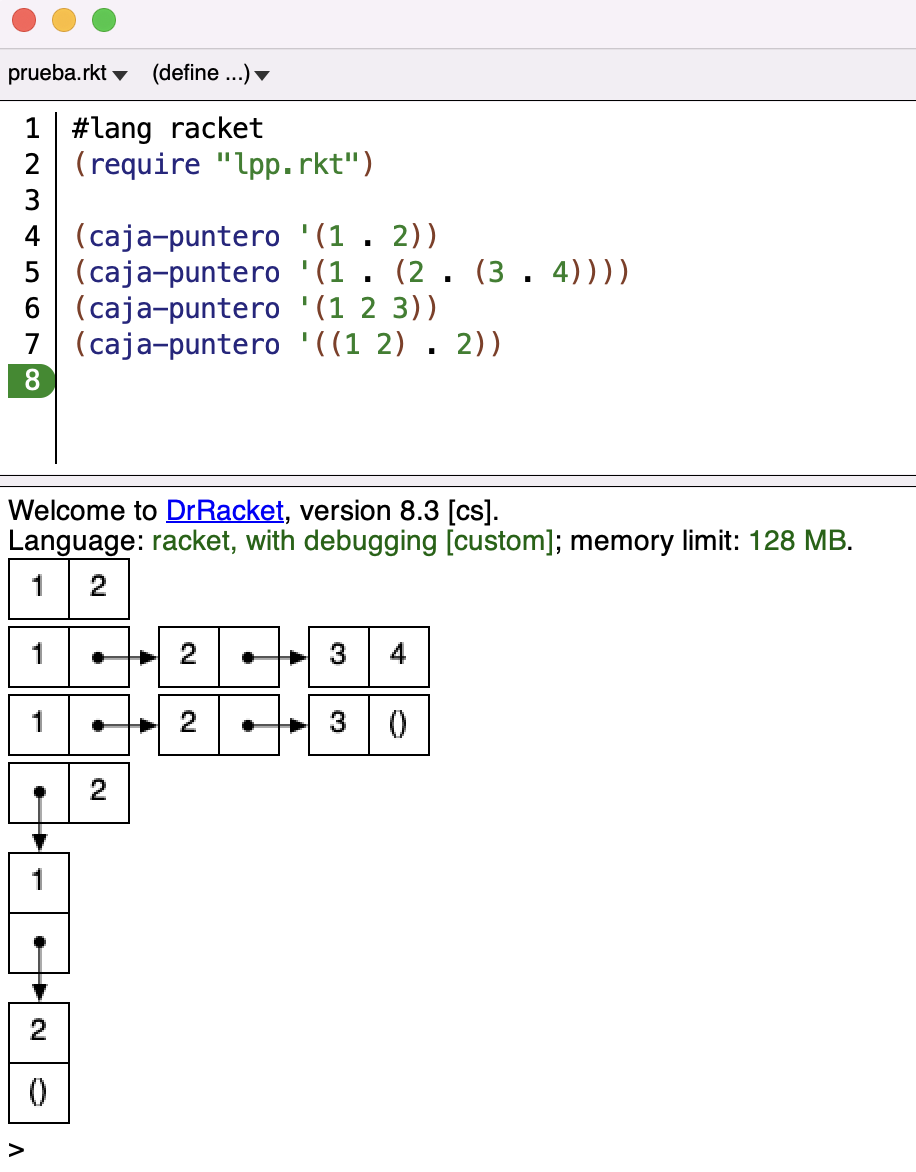
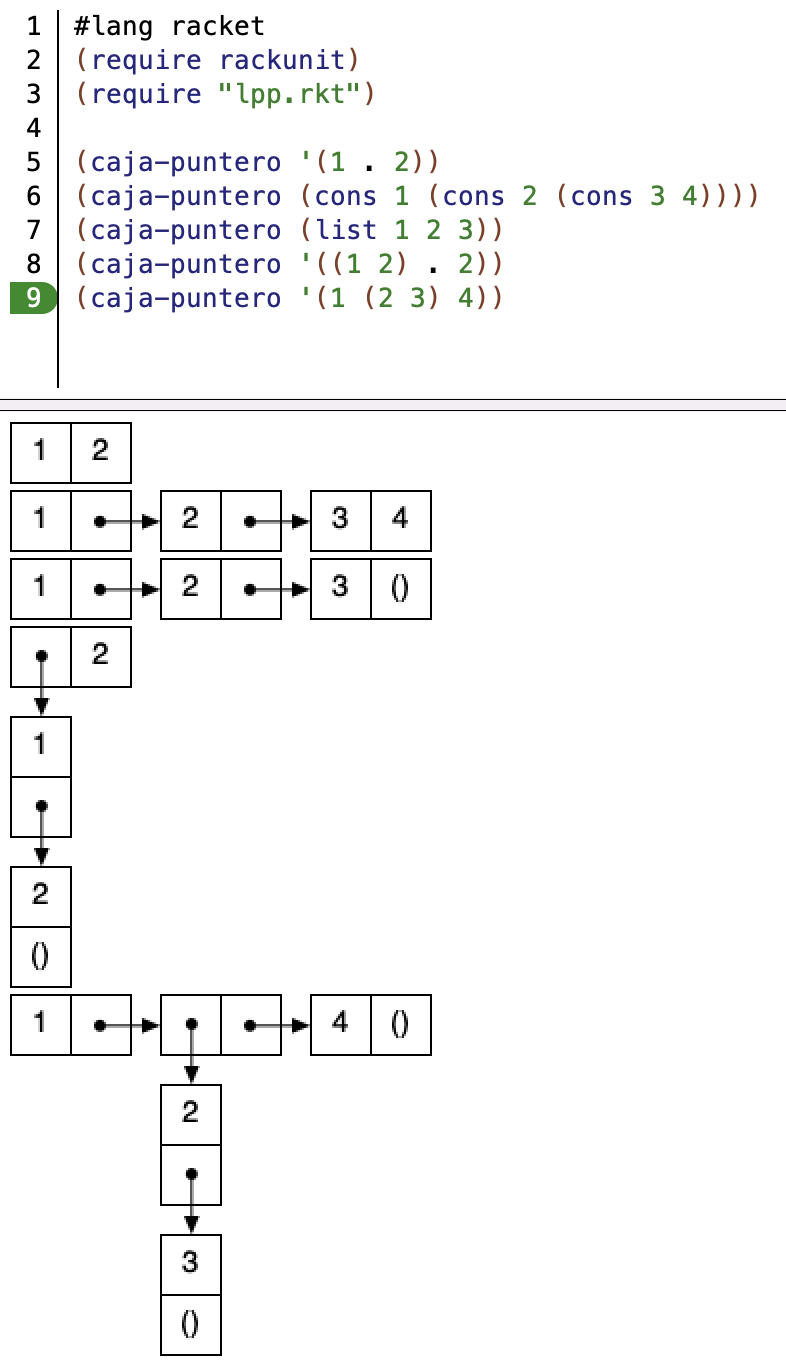
Semana 3

diff --git a/docs/practicas/practica03/practica03.md b/docs/practicas/practica03/practica03.md
@@ -1,5 +1,5 @@
 
-# Práctica 2: Recursión, parejas y diagramas box-and-pointer
+# Práctica 3: Recursión, parejas y diagramas box-and-pointer
 
 ## Antes de la clase de prácticas ##
 
@@ -33,12 +33,14 @@ El siguiente programa muestra un ejemplo del uso de esta función:
 
 ```racket
 #lang racket
+(require rackunit)
 (require "lpp.rkt")
 
 (caja-puntero '(1 . 2))
-(caja-puntero '(1 . (2 . (3 . 4))))
-(caja-puntero '(1 2 3))
+(caja-puntero (cons 1 (cons 2 (cons 3 4))))
+(caja-puntero (list 1 2 3))
 (caja-puntero '((1 2) . 2))
+(caja-puntero '(1 (2 3) 4))
 ```
 
 La siguiente imagen muestra la ejecución del programa en el DrRacket.
@@ -169,7 +171,8 @@ caso contrario. Suponemos listas de 1 o más elementos.
 
 a.1) Dado el siguiente _box & pointer_, escribe la expresión en Scheme
 que define `p1` usando el mínimo número de llamadas a `list` y
-`cons`. No debes utilizar expresiones con `quote`.
+`cons`. No debes utilizar expresiones con `quote`. Puedes usar la
+función gráfica `caja-puntero` para comprobar si tu solución es correcta.
 
 <img src="imagenes/box-and-pointer.png" width="400px"/>
 
@@ -184,60 +187,67 @@ b.2) Escribe las expresiones que devuelven 9 y 2 a partir de `p2`.
 
 ### Ejercicio 4 ###
 
-Vamos a programar una versión simplificada del _blackjack_
-o 21. Dos jugadores juegan un número de cartas y suman todos sus
-valores. Gana el que se acerque más al 21 sin pasarse.
+Implementa la función `(contar-datos-iguales lista-parejas)` que recibe una lista de parejas
+y devuelve el número de parejas que tienen sus dos datos iguales.
 
-Representaremos las cartas como en la práctica 1, y podemos usar las
-funciones allí definidas para obtener su valor. Suponemos que el valor
-es el propio de la carta (no seguiremos la regla del juego original en
-el que las figuras valen 10).
-
-Cada jugador tendrá una lista de cartas y deberá indicar un número `n`
-que representa el número de cartas de esa lista con las que se queda.
-
-Tendremos que implementar la función `(blackjack cartas1 n1 cartas2 n2)`
-que recibe la lista de cartas del jugador 1, el número de cartas que
-se queda el jugador 1, la lista de cartas del jugador 2 y el número de cartas
-del jugador 2.
-
-Por ejemplo, supongamos las siguientes cartas del jugador 1 y del
-jugador 2:
 
 ```racket
-(define cartas1 '(3O 5E AC 2B 5O 5C 4B))
-(define cartas2 '(CE AO 3B AC 2E SC 4C))
+(contar-datos-iguales '((2 . 3) ("hola" . "hola") (\#a . \#a) (true . false))) ; ⇒ 2
+(contar-datos-iguales '((2 . "hola") ("hola" . 3) (\#a . true) (\#b . false))) ; ⇒ 0
 ```
-
-Supongamos que el jugador 1 se queda con 5 cartas de su lista y el
-jugador 2 con 3. Las primeras 5 cartas del jugador 1 suman 16 y las 3
-primeras cartas del jugador 2 suman 15. Ganaría el jugador 1.
-
-```racket
-(blackjack cartas1 5 cartas2 3) ; ⇒ 1
-```
-
-La función `blackjack` devolverá 1 si gana el jugador 1, 2 si gana el
-jugador 2, 0 si empatan y -1 si los dos jugadores se pasan de 21.
-
-Debes implementar la función `blackjack` y una función auxiliar
-recursiva que sea la que sume los valores de las `n` primeras cartas
-de una lista. Si `n` es mayor que el número de cartas, devolverá la
-suma de todas las cartas de la lista.
-
-Puedes definir cualquier otra función auxiliar que necesites.
-
-Otros ejemplos:
-
-```racket
-(blackjack cartas1 5 cartas2 4) ; ⇒ 0
-(blackjack cartas1 5 cartas2 3) ; ⇒ 1
-(blackjack cartas1 3 cartas2 4) ; ⇒ 2
-(blackjack cartas1 7 cartas2 6) ; ⇒ -1
-```
-
 
 ### Ejercicio 5 ###
+
+Vamos a jugar al dominó. 
+
+En el juego del dominó las fichas tienen una pareja de
+valores. Podemos colocar una ficha en la partida cuando uno de los
+valores de la ficha coincide con el primer valor de la lista de fichas
+ya colocadas o con el último.
+
+Por ejemplo, supongamos que la partida ha formado la siguiente lista de fichas:
+
+```racket
+((1 . 3) (3 . 0) (0 . 0) (0 . 4) (4 . 2))
+```
+
+Esta es una lista correcta, porque coinciden los valores de las fichas
+que la forman (el valor derecho de una ficha con el izquierdo de la
+siguiente).
+
+Si tuviéramos en nuestra mano de fichas las fichas:
+
+```racket
+((5 . 5) (3 . 2) (4 . 6) (6 . 6))
+```
+
+podríamos colocar la ficha `(3 . 2)` al final de la lista de la partida (girándola).
+
+a) Implementa la función `(domino-correcto? fichas)` que recibe una lista
+de fichas resultantes de una partida de dominó y comprueba si
+las fichas están colocadas de forma correcta.
+
+```racket
+(define partida '((1 . 3) (3 . 0) (0 . 0) (0 . 4) (4 . 2)))
+(domino-correcto? partida) ; ⇒ #t
+(domino-correcto? '((1 . 3))) ; ⇒ #t
+(domino-correcto? '((1 . 4) (2 . 1))) ; ⇒ #f
+```
+
+b) Implementa la función `(juega? mano partida)` que recibe una mano
+(una lista de fichas) y otra lista de fichas colocadas en la partida y
+devuelve #t si existe alguna ficha de la mano que se puede colocar en
+la partida.
+
+```
+(define mano '((5 . 5) (3 . 2) (4 . 6) (6 . 6)))
+(juega? mano partida) ; ⇒ #t - podría poner la ficha (3 . 2)
+(juega? mano '((0 . 0))) ; ⇒ #f
+(juega? mano '((0 . 0) (0 . 1))) ; ⇒ #f
+```
+
+
+### Ejercicio 6 ###
 
 a) Implementa las funciones `(suma-izq pareja n)` y `(suma-der pareja n)`
 definidas de la siguiente forma:
@@ -268,7 +278,22 @@ Ejemplos:
 (suma-impares-pares '(3 1 5))           ; ⇒ (9 . 0)
 ```
 
-### Ejercicio 6 ###
+c) Recuerda la función `(veces lista id)` que vimos en teoría:
+
+```racket
+(define (veces lista id)
+  (cond
+    ((null? lista) 0)
+    ((equal? (first lista) id) (+ 1 (veces (rest lista) id)))
+    (else (veces (rest lista) id))))
+
+(veces '(a b a a b b) 'a) ; ⇒ 3 
+```
+
+Reescribe la función `(veces lista id)` para que solo aparezca una
+llamada recursiva en su código.
+
+### Ejercicio 7 ###
 
 Implementa la función recursiva `(cadena-mayor lista)` que recibe un
 lista de cadenas y devuelve una pareja con la cadena de mayor longitud
@@ -290,7 +315,7 @@ cadena vacía y un 0 (la longitud de la cadena vacía).
 ## Entrega de la práctica
 
 Sube la solución de los ejercicios al cuestionario de Moodle Entrega
-práctica 2 hasta el domingo 20 de febrero a las 21:00 h.
+práctica 3 hasta el domingo 20 de febrero a las 21:00 h.
 
 Tal y como hemos comentado al comienzo de la práctica, debes incluir
 casos de prueba en todo el código que escribas.
